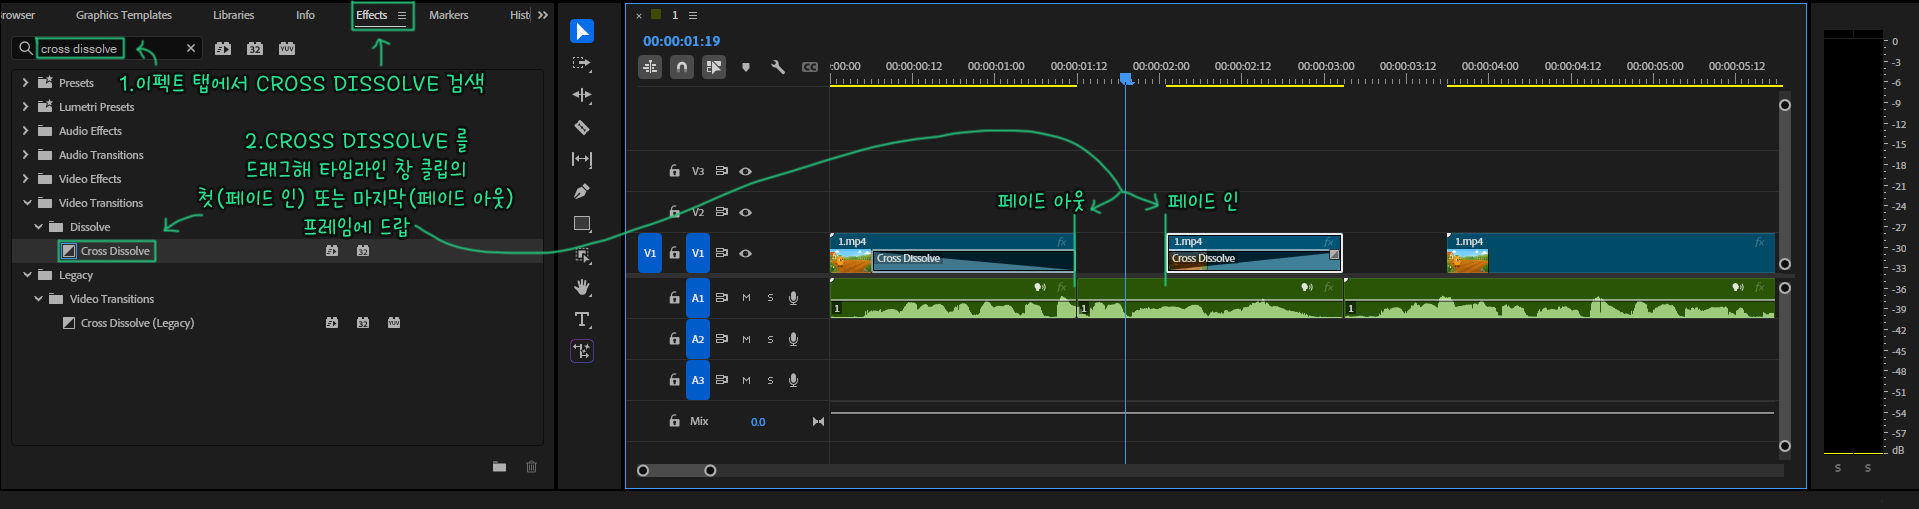
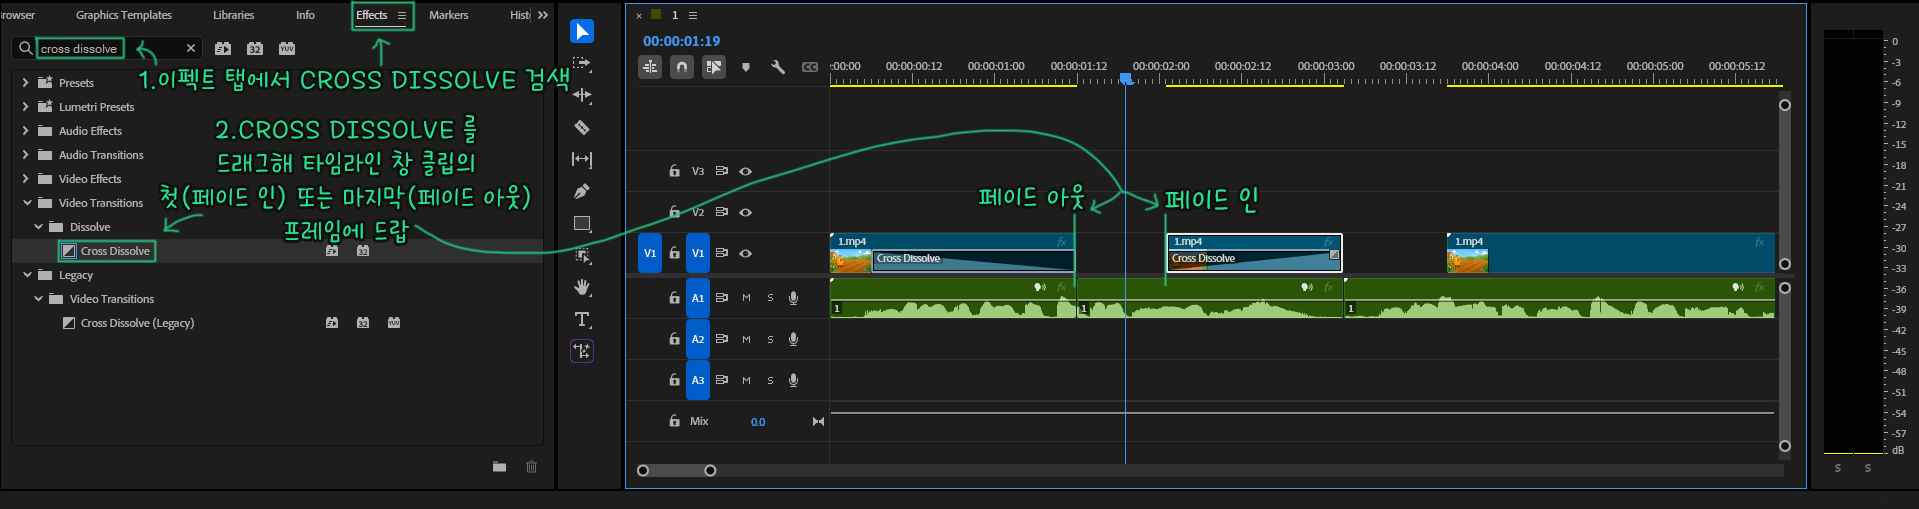
no message

Changed region(s): [[0.0922, 0.2358, 0.2767, 0.501], [0.0615, 0.1179, 0.3075, 0.1768], [0.4919, 0.3536, 0.6456, 0.4126]]

diff --git a/_posts/Photoshop/2026-07-01-photoshop-basic.md b/_posts/Photoshop/2026-07-01-photoshop-basic.md
@@ -12,21 +12,44 @@ categories: Photoshop
 # 📌 Background
 {: .notice}
 
-<span class="ul-1"><span class="color-keyword">test</span> : test</span>
+<img src="/img/Photoshop/background.png"/>
 
-<span class="ul-1"><span class="color-keyword">test</span> : test</span>
 
-<span class="ul-2"><span class="color-variable">test</span> : test</span>
 
-<span class="ul-1"><span class="color-keyword">test</span> : test</span>
 
 # 📌 Feather
 {: .notice}
 
-<span class="ul-1"><span class="color-keyword">test</span> : test</span>
+<img src="/img/Photoshop/feather.png"/>
 
-<span class="ul-1"><span class="color-keyword">test</span> : test</span>
 
-<span class="ul-2"><span class="color-variable">test</span> : test</span>
 
-<span class="ul-1"><span class="color-keyword">test</span> : test</span>
+
+# 📌 레이어 순서와 스마트 오브젝트
+{: .notice}
+
+<img src="/img/Photoshop/smart-obejct-and-layer-order.png"/>
+
+
+
+
+# 📌 색상 변환
+{: .notice}
+
+<img src="/img/Photoshop/hue.png"/>
+
+
+
+
+# 📌 특정 부분(컬러) 제외 흑백화
+{: .notice}
+
+<img src="/img/Photoshop/black-and-white.png"/>
+
+
+
+
+# 📌 머지
+{: .notice}
+
+<img src="/img/Photoshop/merge.png"/>